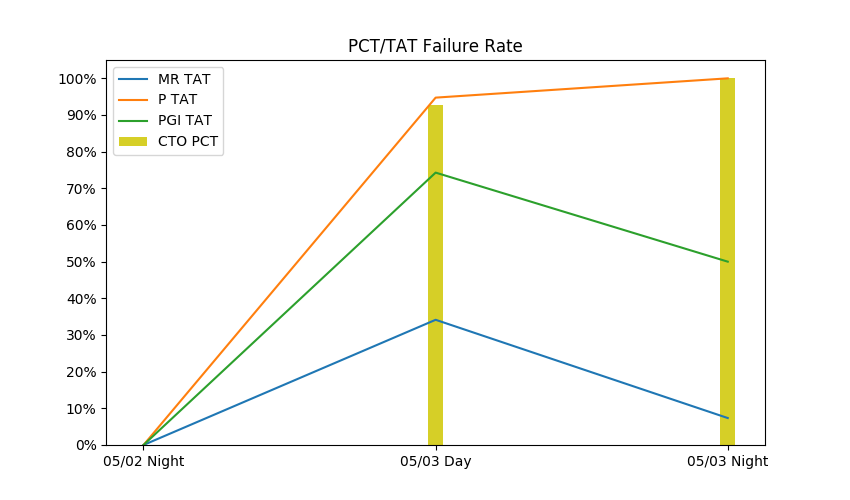
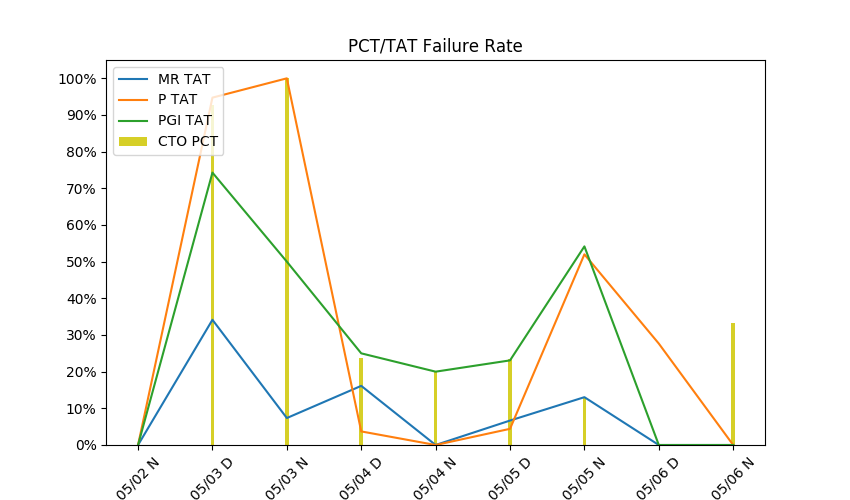
fixed issue of x axe label display

diff --git a/Dashboard/write_message.py b/Dashboard/write_message.py
@@ -4,6 +4,7 @@ from get_paying_hours import paying_hours
 from collections import defaultdict
 
 def write_message(Type, Target, From, To, WorkingDay, WorkingHour, URL, Shift):
+	html = ""
 	Sum = 0
 	Sum_Fail = 0
 	Failure_Rate = 0
@@ -105,7 +106,7 @@ def write_message(Type, Target, From, To, WorkingDay, WorkingHour, URL, Shift):
 		
 		# Generate table
 		if (Type == 'MR'):
-			html = """
+			html += """
 			<table border="1" width="888">
 				<tr bgcolor="#1F77B4">
 					<th colspan="4">备料(MR) TAT Performance</th>
@@ -118,7 +119,7 @@ def write_message(Type, Target, From, To, WorkingDay, WorkingHour, URL, Shift):
 				</tr>
 			"""
 		if (Type == 'P'):
-			html = """
+			html += """
 			<table border="1" width="888">
 				<tr bgcolor="#FF7F0E">
 					<th colspan="4">生产(P) TAT Performance</th>
@@ -131,7 +132,7 @@ def write_message(Type, Target, From, To, WorkingDay, WorkingHour, URL, Shift):
 				</tr>
 			"""
 		if (Type == 'PGI'):
-			html = """
+			html += """
 			<table border="1" width="888">
 				<tr bgcolor="#2CA02C">
 					<th colspan="4">出货(PGI) TAT Performance</th>
@@ -144,7 +145,7 @@ def write_message(Type, Target, From, To, WorkingDay, WorkingHour, URL, Shift):
 				</tr>
 			"""
 		if (Type == 'PC'):
-			html = """
+			html += """
 			<table border="1" width="888">
 				<tr bgcolor="#D6CF27">
 					<th colspan="4">Overall PCT Performance</th>

diff --git a/dev/write_message.py b/dev/write_message.py
@@ -4,6 +4,7 @@ from get_paying_hours import paying_hours
 from collections import defaultdict
 
 def write_message(Type, Target, From, To, WorkingDay, WorkingHour, URL, Shift):
+	html = ""
 	Sum = 0
 	Sum_Fail = 0
 	Failure_Rate = 0
@@ -105,7 +106,7 @@ def write_message(Type, Target, From, To, WorkingDay, WorkingHour, URL, Shift):
 		
 		# Generate table
 		if (Type == 'MR'):
-			html = """
+			html += """
 			<table border="1" width="888">
 				<tr bgcolor="#1F77B4">
 					<th colspan="4">备料(MR) TAT Performance</th>
@@ -118,7 +119,7 @@ def write_message(Type, Target, From, To, WorkingDay, WorkingHour, URL, Shift):
 				</tr>
 			"""
 		if (Type == 'P'):
-			html = """
+			html += """
 			<table border="1" width="888">
 				<tr bgcolor="#FF7F0E">
 					<th colspan="4">生产(P) TAT Performance</th>
@@ -131,7 +132,7 @@ def write_message(Type, Target, From, To, WorkingDay, WorkingHour, URL, Shift):
 				</tr>
 			"""
 		if (Type == 'PGI'):
-			html = """
+			html += """
 			<table border="1" width="888">
 				<tr bgcolor="#2CA02C">
 					<th colspan="4">出货(PGI) TAT Performance</th>
@@ -144,7 +145,7 @@ def write_message(Type, Target, From, To, WorkingDay, WorkingHour, URL, Shift):
 				</tr>
 			"""
 		if (Type == 'PC'):
-			html = """
+			html += """
 			<table border="1" width="888">
 				<tr bgcolor="#D6CF27">
 					<th colspan="4">Overall PCT Performance</th>

diff --git a/Dashboard/make_plot.py b/Dashboard/make_plot.py
@@ -32,9 +32,9 @@ def make_plot(Shift):
 	for row in cursor:
 		if (row['Name'][-8:] == 'FailRate'):
 			if (row['Shift'][-2:] == '08'):
-				FailRate[row['Shift'][3:8] + ' Day'].update({row['Name']:float(row['Value'])})
+				FailRate[row['Shift'][3:8] + ' D'].update({row['Name']:float(row['Value'])})
 			if (row['Shift'][-2:] == '20'):
-				FailRate[row['Shift'][3:8] + ' Night'].update({row['Name']:float(row['Value'])})
+				FailRate[row['Shift'][3:8] + ' N'].update({row['Name']:float(row['Value'])})
 
 	od = collections.OrderedDict(sorted(FailRate.items()))
 
@@ -59,7 +59,7 @@ def make_plot(Shift):
 	# p4[0].set_color('y')
 	
 	plt.title('PCT/TAT Failure Rate')
-	plt.grid(True)
+	plt.grid(b=True, which='minor', color='r', linestyle='--')
 	# plt.legend(['MR TAT', 'P TAT', 'PGI TAT', 'CTO PCT'], loc='upper left')
 	plt.legend((p1[0], p2[0], p3[0], p4[0]), ('MR TAT', 'P TAT', 'PGI TAT', 'CTO PCT'), loc='upper left')
 
@@ -67,7 +67,7 @@ def make_plot(Shift):
 	# p1 = plt.bar(ind, menMeans, width, color='#d62728')
 	# p2 = plt.bar(ind, womenMeans, width, bottom=menMeans)
 
-	plt.xticks(ind, x)
+	plt.xticks(ind, x, rotation=45)
 	plt.yticks(np.arange(0, 1.1, 0.1))
 	# plt.legend((p1[0], p2[0]), ('Men', 'Women'))
 	plt.gca().set_yticklabels(['{:.0f}%'.format(x*100) for x in plt.gca().get_yticks()]) 

diff --git a/dev/make_plot.py b/dev/make_plot.py
@@ -32,9 +32,9 @@ def make_plot(Shift):
 	for row in cursor:
 		if (row['Name'][-8:] == 'FailRate'):
 			if (row['Shift'][-2:] == '08'):
-				FailRate[row['Shift'][3:8] + ' Day'].update({row['Name']:float(row['Value'])})
+				FailRate[row['Shift'][3:8] + ' D'].update({row['Name']:float(row['Value'])})
 			if (row['Shift'][-2:] == '20'):
-				FailRate[row['Shift'][3:8] + ' Night'].update({row['Name']:float(row['Value'])})
+				FailRate[row['Shift'][3:8] + ' N'].update({row['Name']:float(row['Value'])})
 
 	od = collections.OrderedDict(sorted(FailRate.items()))
 
@@ -67,7 +67,7 @@ def make_plot(Shift):
 	# p1 = plt.bar(ind, menMeans, width, color='#d62728')
 	# p2 = plt.bar(ind, womenMeans, width, bottom=menMeans)
 
-	plt.xticks(ind, x)
+	plt.xticks(ind, x, rotation=45)
 	plt.yticks(np.arange(0, 1.1, 0.1))
 	# plt.legend((p1[0], p2[0]), ('Men', 'Women'))
 	plt.gca().set_yticklabels(['{:.0f}%'.format(x*100) for x in plt.gca().get_yticks()]) 
